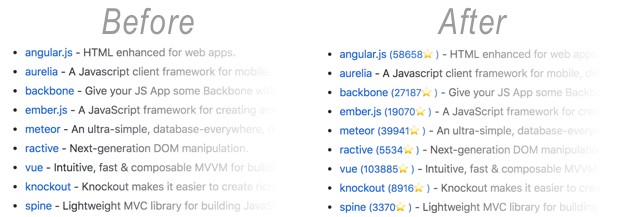
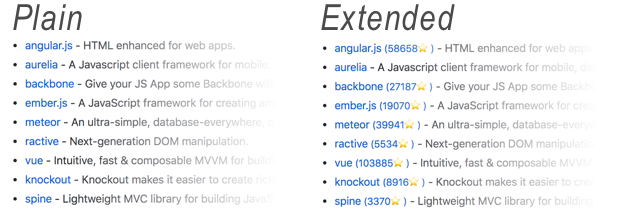
Tune some wording; substrate for push date

diff --git a/content.js b/content.js
@@ -49,38 +49,64 @@ function updateLinks(accessToken) {
                 if (res.ok) {
                     return res.json();
                 } else {
-                    if (res.status == 403) {
-                        const an = annotate(elt, ' (⏳)');
-                        const when = new Date(
-                            Number(res.headers.get('X-RateLimit-Reset')) * 1000
-                        );
-                        var title =
-                            'The GitHub API rate limit has been exceeded.' +
-                            'No API calls are available until ' +
-                            when +
-                            '.';
-                        if (!accessToken) {
-                            title +=
-                                '\n\nEnter a GitHub access token into the ' +
-                                'extension options to increase this rate.';
-                        }
-
-                        an.setAttribute('title', title);
-                    }
-                    if (res.status == 404) {
-                        annotate(elt, ' (missing⚰)', 'missing');
-                    }
+                    addErrorAnnotation(elt, res);
                 }
             })
             .then(data => {
                 if (data) {
-                    annotate(elt, ' (' + data.stargazers_count + '⭐)');
+                    addAnnotation(elt, data);
                 }
             });
     });
 }
 
-function annotate(elt, str, extraCssClasses) {
+function addErrorAnnotation(elt, res) {
+    if (res.status == 403) {
+        const an = createAnnotation(elt, ' (⏳)');
+        const when = new Date(
+            Number(res.headers.get('X-RateLimit-Reset')) * 1000
+        );
+        var title =
+            'The GitHub API rate limit has been exceeded.' +
+            'No API calls are available until ' +
+            when +
+            '.';
+        if (!accessToken) {
+            title +=
+                '\n\nEnter a GitHub access token into the ' +
+                'extension options to increase this rate.';
+        }
+
+        an.setAttribute('title', title);
+    } else if (res.status == 404) {
+        createAnnotation(elt, ' (missing⚰)', 'missing');
+    } else {
+        console.error('sneetches: request status =', res.status);
+    }
+}
+
+function addAnnotation(elt, data) {
+    const text = [];
+    if (false) {
+        const when = new Date(data.pushed_at);
+        var whenStr = when.toLocaleDateString();
+        if (when.getFullYear() === new Date().getFullYear()) {
+            whenStr = whenStr.replace(
+                RegExp('/' + when.getFullYear() + '$'),
+                ''
+            );
+        }
+        text.push(whenStr + '➡');
+    }
+    if (true) {
+        text.push(commify(data.stargazers_count) + '⭐)');
+    }
+    createAnnotation(elt, ' (' + text.join('; '));
+}
+
+const commify = n => n.toString().replace(/\B(?=(\d{3})+(?!\d))/g, ',');
+
+function createAnnotation(elt, str, extraCssClasses) {
     var cssClass = 'data-sneetch-extension';
     if (extraCssClasses) {
         cssClass += ' ' + extraCssClasses;

diff --git a/README.md b/README.md
@@ -2,8 +2,6 @@
 
 Sneetches is a Chrome extension that adds stars next to GitHub repo links.
 
-An example from [Awesome JavaScript](https://github.com/sorrycc/awesome-javascript#mvc-frameworks-and-libraries):
-
 ![](./docs/comparison.png)
 
 ## Installation
